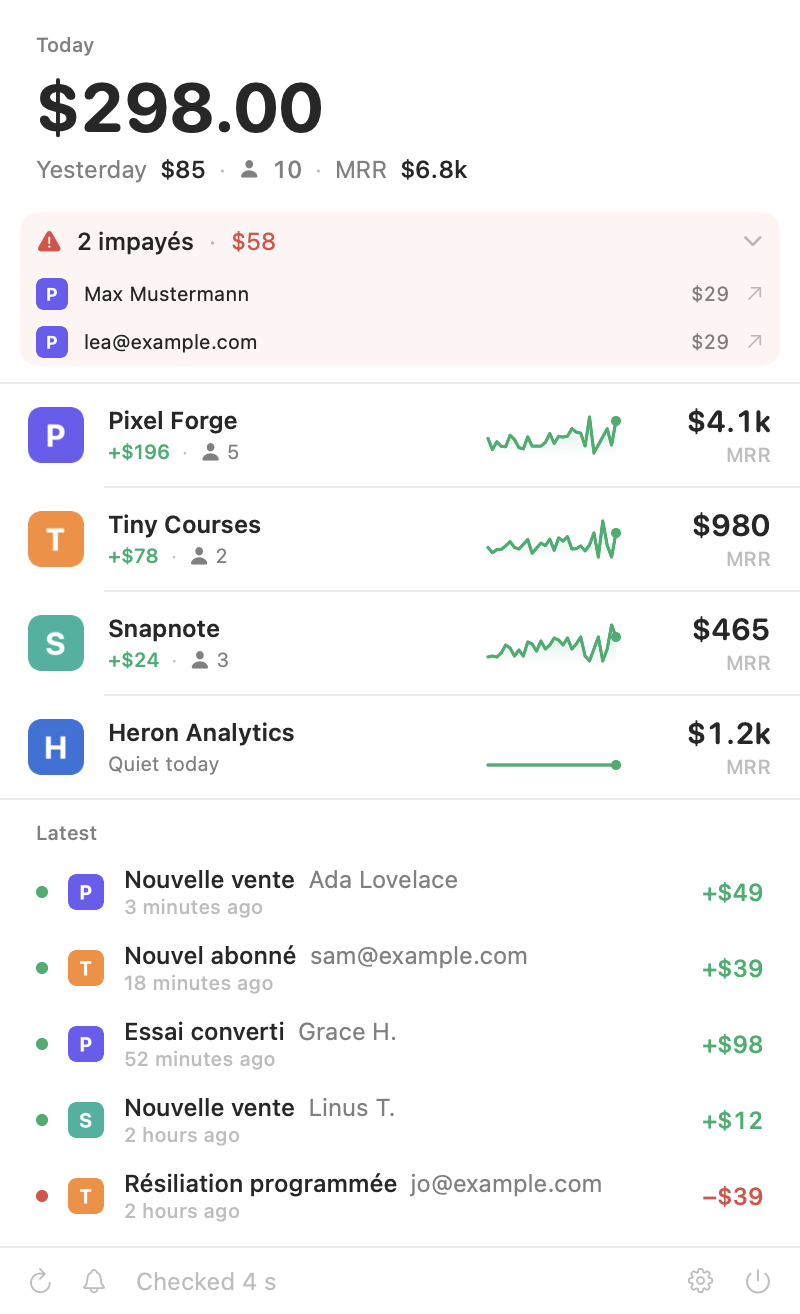
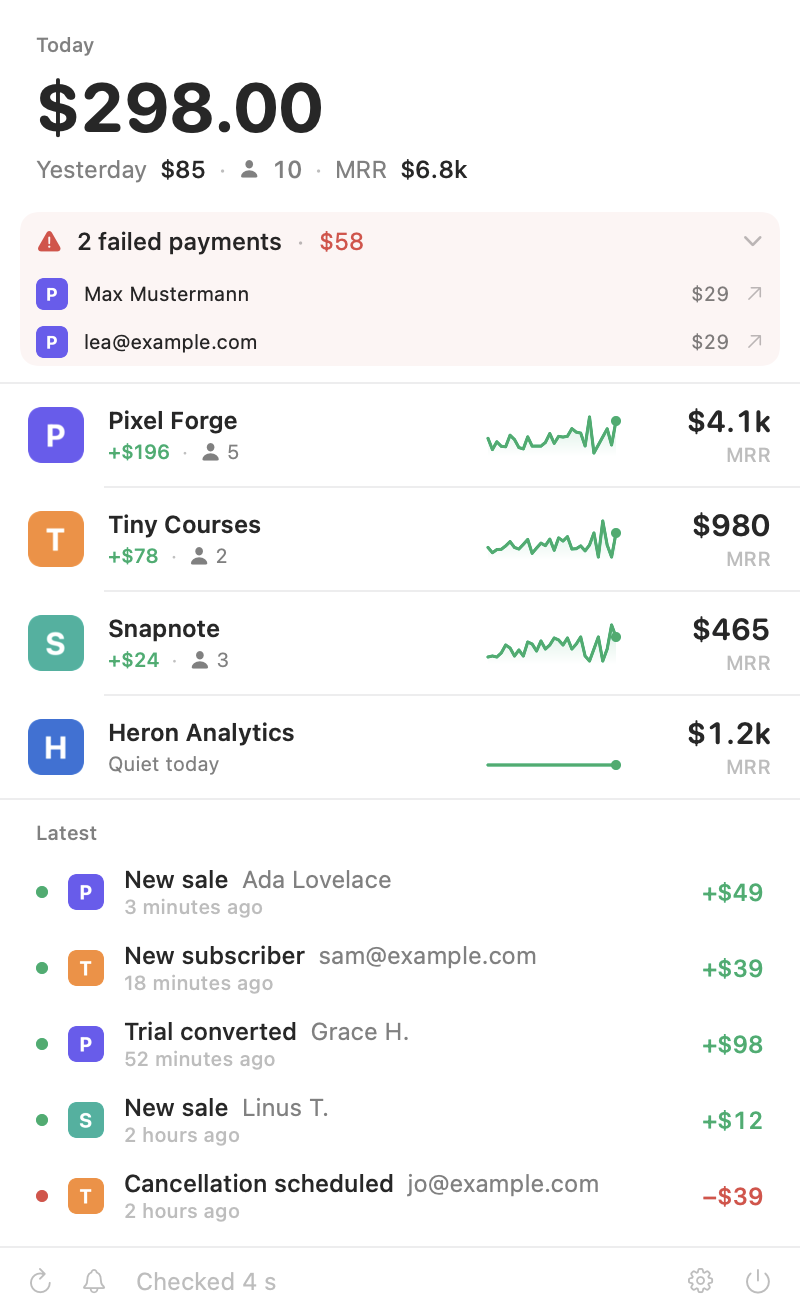
README: describe the current panel, English screenshots

diff --git a/README.md b/README.md
@@ -14,19 +14,22 @@ Free, open source, no server. Your keys never leave your Mac.</p>
 <p align="center">
   <picture>
     <source media="(prefers-color-scheme: dark)" srcset="docs/panel-dark.png">
-    <img src="docs/panel-light.png" width="400" alt="PulseMRR menu bar panel: today's takings, yesterday, 7 days, MRR, a week chart, a table of projects and the latest activity">
+    <img src="docs/panel-light.png" width="400" alt="PulseMRR menu bar panel: today's takings with yesterday, new customers and MRR, failed payments, one row per project with a sparkline and its MRR, and the latest activity">
   </picture>
 </p>
 
 ## What it does
 
-- **A notification for what matters**, each one switchable: new sale, new subscriber, trial started, trial converted, cancellation scheduled, subscription ended, failed payment, refund, dispute, payout, new customer. Money coming in plays a cash register sound.
-- **Every Stripe account in one place.** Add as many as you run, each with its project's logo (taken from your Stripe branding or your website) or an emoji.
-- **Today, yesterday, 7 days and MRR** at a glance, with a bar chart of the week and a table per project.
-- **One currency.** Accounts in dollars and euros add up in the currency you pick, at the day's ECB rate. Hover a total to see the original amounts.
+- **A notification for what matters**, each one switchable: new sale, new subscriber, new customer, trial started, trial converted, cancellation scheduled, subscription ended, failed payment, refund, dispute, payout. Money coming in plays a cash register sound. Notifications can stay on screen until you dismiss them.
+- **Every Stripe account in one place.** Add as many as you run, each with its project's logo (taken from your Stripe branding or your website) or an emoji. Drag to reorder.
+- **Today at a glance:** the day's takings, yesterday, today's new customers and your total MRR, with today's amount and new customers right in the menu bar if you want them.
+- **Failed payments on one line.** Expand it to see who failed and open each one in Stripe.
+- **One row per project:** today's takings, new customers, a 30 day sparkline and its MRR. Hover for the details.
+- **MRR you can trust.** Only active subscriptions count. Past due ones are shown as at risk, trials and scheduled cancellations are kept apart, so a failing card never inflates the number.
+- **One currency.** Accounts in dollars and euros add up in the currency you pick (euro, dollar, pound, Swiss franc, Canadian dollar), at the day's ECB rate.
 - **A daily recap** at the hour you choose: the day's total against yesterday, sales, new subscribers, cancellations, and your best project.
 - **Click a notification** to open the payment, subscription or dispute in your Stripe dashboard.
-- **English and French**, following your Mac's language.
+- **Opens at login**, checks every 15 seconds to 5 minutes, and speaks English and French, following your Mac's language.
 
 ## Install
 
@@ -50,7 +53,7 @@ and leave everything else at None. A secret key (`sk_live_…`) works too, but P
 
 ## Privacy
 
-- **No server.** PulseMRR talks to Stripe's API directly from your Mac, every 30 seconds (you can change it).
+- **No server.** PulseMRR talks to Stripe's API directly from your Mac, every 30 seconds by default.
 - **Read only.** Every call is a `GET`: PulseMRR never creates, changes or deletes anything in Stripe.
 - **Keys stay in your Keychain**, never in a file, never sent anywhere but `api.stripe.com`.
 - **Other requests:** the day's exchange rates from [frankfurter.app](https://frankfurter.app) (ECB data), and your project's favicon from Google's favicon service when your Stripe account has no icon.
